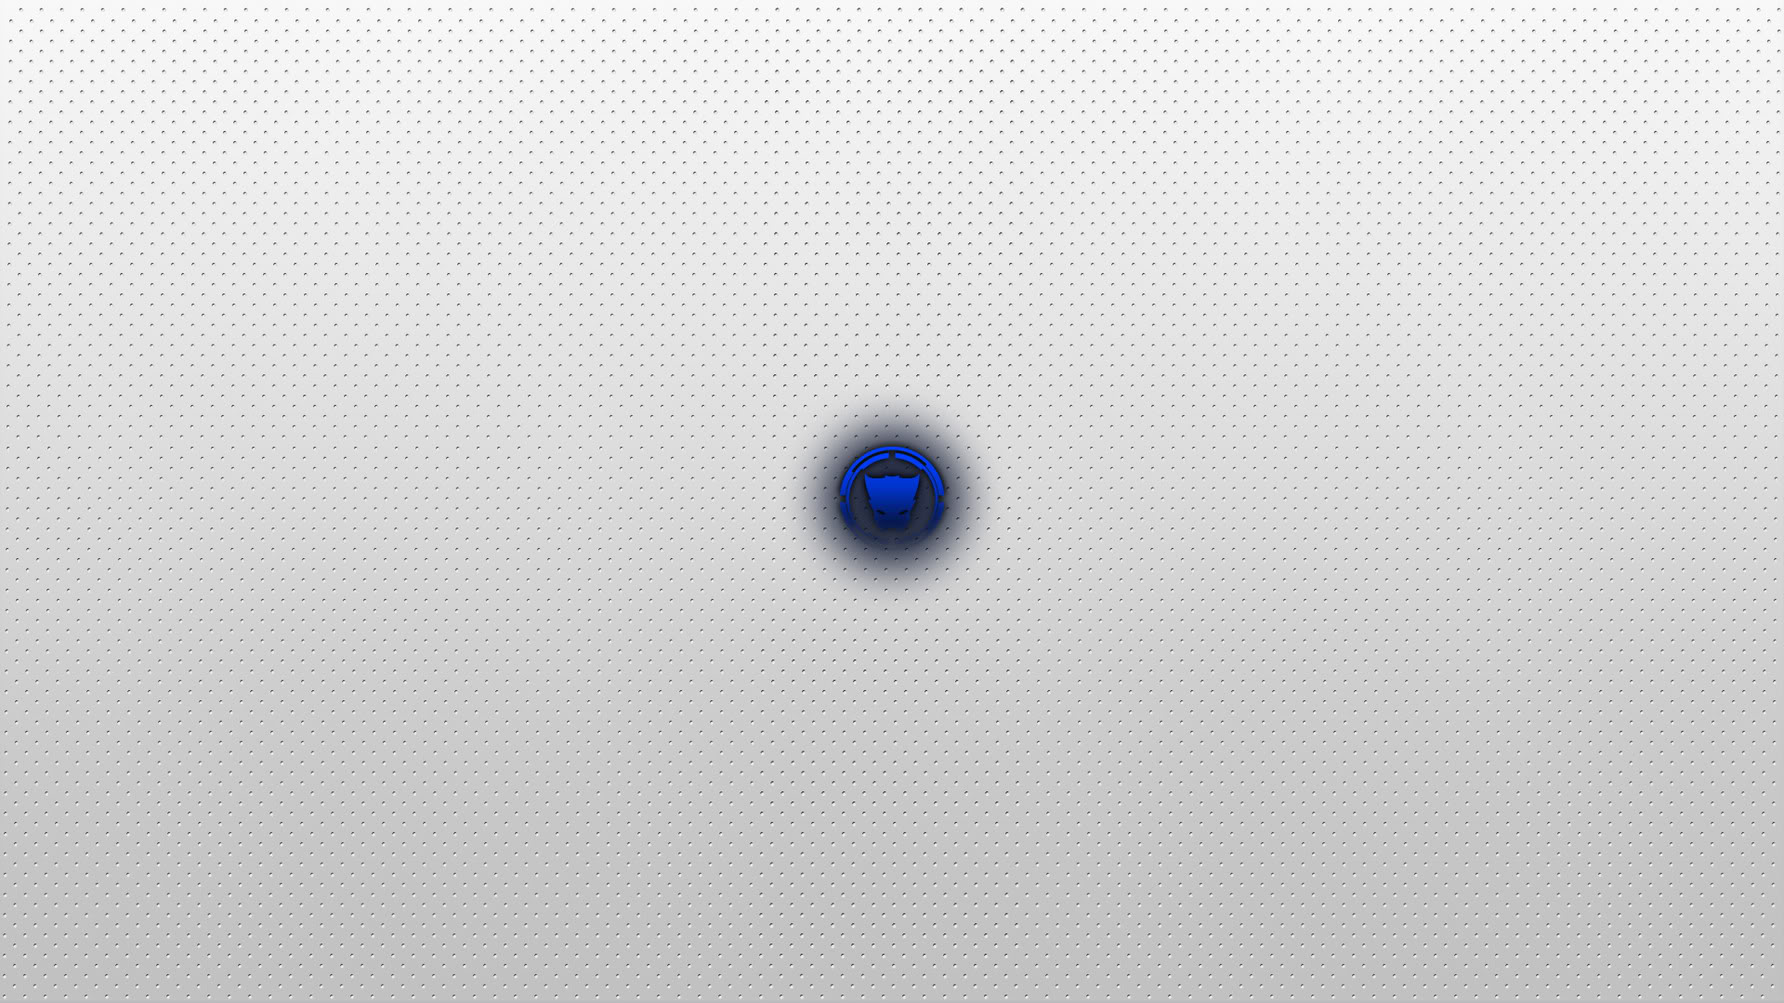
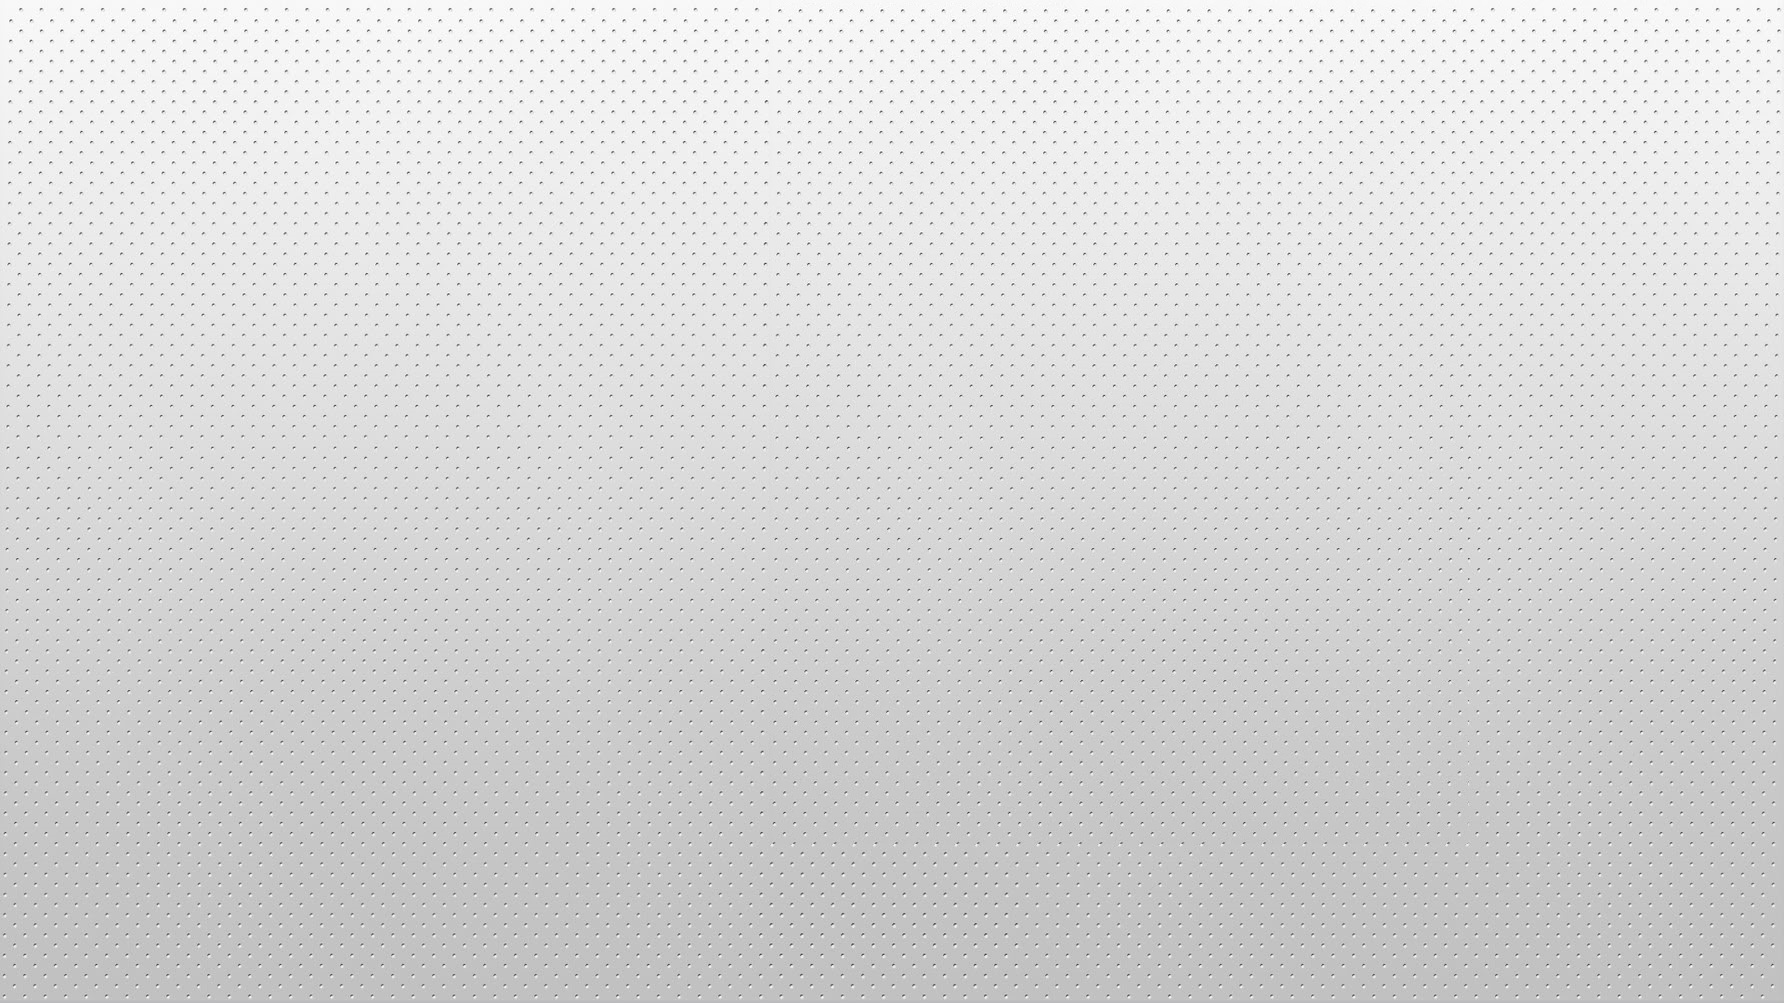
update and new background

Changed region(s): [[0.4316, 0.4018, 0.5549, 0.5872]]

diff --git a/assets/css/style.css b/assets/css/style.css
@@ -5,17 +5,76 @@ body {
     background-color: #ffffff;
     margin-left: auto;
     margin-right: auto;
-    background-image: url("assets/images/wallpaper.jpg"); 
+    background-image: url("https://github.com/aroarian/Basic-Portfolio/blob/master/assets/images/wallpaper.JPG?raw=true")
+    
 }
 
 .header {
     width: 100%;
-    height: 100;
-    border-bottom: 1px;
-    border-style: solid;
-    border-color: #cccccc;
+    height: 100px;
+    border-bottom: 1px solid #cccccc;
+    background-color:#ffffff;
+    
 }
 
 .name {
+    height: 75px;
+    width: 220px;
+    background-color: #0f2694;
+    margin-top: 25px;
+    margin-left: 20%;
+    text-align: center;
+    vertical-align: middle;
+    line-height: 75px; 
+    font-family: Georgia;
+    font-weight: bold;
+    font-size: 24px;
+    color: #ecedf0;
+    float: left;
+}
 
+.nav {
+    width: 300px;
+    height: 25px;
+    margin-left: 62%;
+    text-align: center;
+    vertical-align: middle;
+    padding-top: 45px;
+    line-height: 25px; 
+    
+}
+
+.button {
+    display: inline-block;
+    color: #0f2694;
+    font-weight: bold;
+    margin: 5px;
+    height: 25px;
+}
+
+#about {
+    width: 60px;
+    text-align: left;
+    border-right: 1px solid #cccccc;
+    
+}
+
+#port {
+    width: 85px;
+    text-align: left;
+    border-right: 1px solid #cccccc;
+    
+}
+
+#contact {
+    width: 78px;
+    text-align: left;
+    border-right: 1px solid #cccccc;
+    
+}
+
+.container {
+    width: 960px;
+    height: 500px;
+    
 }

diff --git a/index.html b/index.html
@@ -1,24 +1,33 @@
 <!DOCTYPE HTML>
 <html>
-    <body>
-        <head>
-            <meta charset="UTF-8">
-            <link rel="stylesheet" href="assets/css/style.css">
-            <title>Ian's Portfolio</title>
-        </head>
 
-        <div class="header">
-            <div class="name">Ian Cogswell</div>
-            <div class="nav">
-                <div class="about">About</div>
-                <div class="portfolio">Portfolio</div>
-                <div class="contact"> Contact</div>
+<body>
+
+    <head>
+        <meta charset="UTF-8">
+        <link rel="stylesheet" href="assets/css/style.css">
+        <title>Ian's Portfolio</title>
+    </head>
+
+    <div class="header">
+        <div class="name">Ian Cogswell</div>
+        <div class="nav">
+            <div class="button">
+                <div id="about">About</div>
+            </div>
+            <div class="button">
+                <div id="port">Portfolio</div>
+            </div>
+            <div class="button">
+                <div id="contact">Contact</div>
             </div>
         </div>
-        <div class="container">
-            <div class="about"></div>
-            <div class="content"></div>
-        </div>
-        <div class="footer">Copyright&#169;</div>
-    </body>
+    </div>
+    <div class="container">
+        <div class="about"></div>
+        <div class="content"></div>
+    </div>
+    <div class="footer">Copyright&#169;</div>
+</body>
+
 </html>
